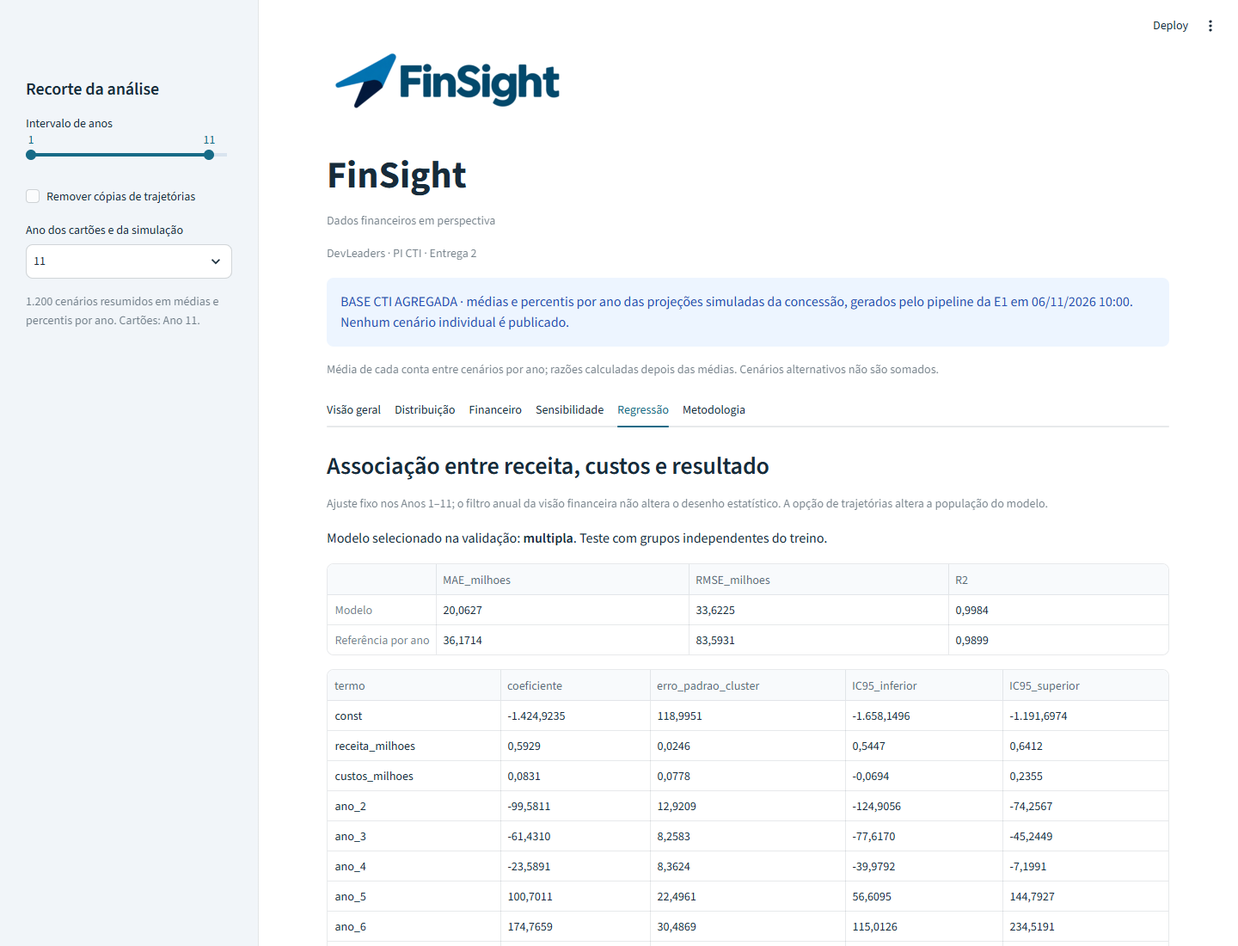
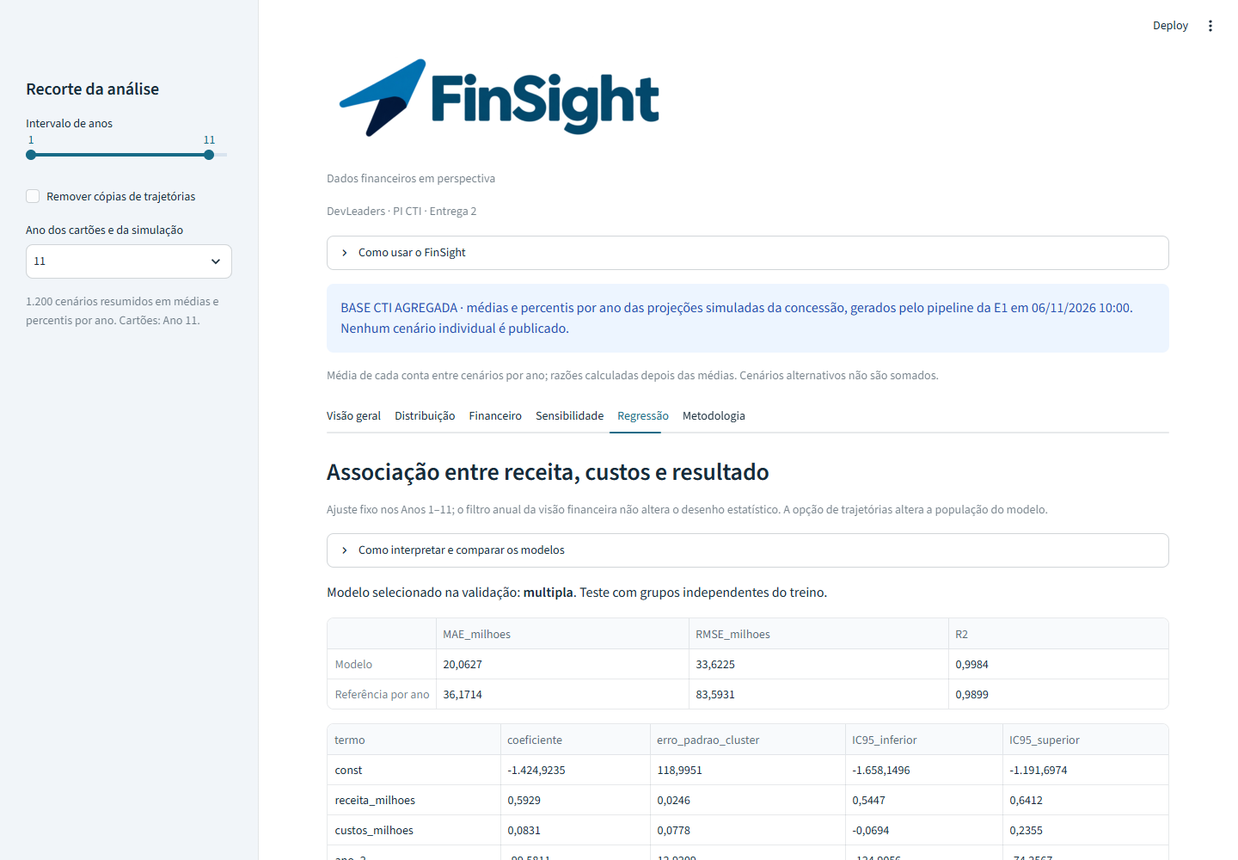
feat: aprimora leitura gerencial encerramento e exportacao PDF

diff --git a/tools/gerar_documentos_e2.py b/tools/gerar_documentos_e2.py
@@ -38,7 +38,7 @@ def capa(disciplina,professor,subtitulo):
             Spacer(1,12),h(disciplina),p(subtitulo),
             table([["Identificação","Entrega 2"],["Grupo","6 - DevLeaders"],
                    ["Integrantes","Gustavo Pires; Lúcio Vecchio; Luiz Henrique Zaim da Cruz; Eric Aloise"],
-                   ["Orientação",professor],["Data de referência","06/11/2026"],
+                   ["Orientação",professor],["Data de referência","07/11/2026"],
                    ["Código testado (referência)",R["commit_implementacao"][:12]],
                    ["Repositório","github.com/2026-2-NCC4/Projeto6"]],[105,385]),Spacer(1,18)]
 def rodape(canvas,doc):
@@ -112,7 +112,7 @@ salvar("Análise Inferencial de Dados","E2_Analise_Inferencial_CTI.pdf",s)
 s=capa("Contabilidade e Finanças","Orientadores do PI: Eduardo Savino, Luis Pires, Mauricio Lopes e Rodnil da Silva","Painel operacional, regras de cálculo e sensibilidade")
 s += [h("1. Decisões apoiadas"),p("O painel integra receita, custos, margem após custos, resultado líquido e geração de caixa. As abas Financeiro e Sensibilidade oferecem os indicadores E1, ticket hipotético, meta acadêmica, evolução anual e comparação entre referência e simulação."),
       p("Os cenários são alternativas da mesma concessão. Para cada ano, calculamos a média de cada conta e depois o indicador. Não somamos faturamento entre cenários nem saldos patrimoniais entre anos. O padrão mantém todos os 1.200 cenários; a opção sem cópias retém 1.107 trajetórias."),
-      p("A versão de produção utiliza médias e percentis reais da CTI, conferidos com a base preparada E1. O arquivo completo permanece local. O painel identifica a fonte e oferece a comparação de 1.200 cenários com 1.107 trajetórias únicas."),br(),
+      p("A versão de produção utiliza médias e percentis reais da CTI, conferidos com a base preparada E1. O arquivo completo permanece local. O painel identifica a fonte e oferece a comparação de 1.200 cenários com 1.107 trajetórias únicas. O guia de uso orienta gestão, financeiro e análise. A Visão geral acrescenta leitura textual e quadro próprio dos Anos 11-12; a tabela de encerramento não constitui ponte contábil e preserva a população escolhida."),br(),
       h("2. Dicionário operacional")]
 from src.cti.indicadores import calcular
 s += [table([["KPI","Unidade","Regra"]]+[[k.nome,k.unidade,k.formula] for k in calcular({})],[160,65,265]),
@@ -124,7 +124,7 @@ s += [table([["Indicador","Fórmula / interpretação","Validação"],
              ["Resultado líquido","DRE - Resultado Líquido","Conta da base, sem substituir por margem parcial."],
              ["Geração de caixa","FLU - Geração de Caixa","Conta anual; não equivale a EBITDA."],
              ["MVA","Indisponível","Falta valor de mercado; não atribuir zero."]],[115,220,155]),
-      Spacer(1,15),p("Denominador zero ou conta ausente deixa o indicador indisponível. PC não negativo mantém os indicadores dependentes pendentes. Ano 12 preserva ausência de estoques, PL e ELP. EBITDA é fornecido, sem memória de cálculo reconciliada. EVA simplificado é hipótese sobre capital próprio, não cálculo completo de EVA econômico."),
+      Spacer(1,15),p("Denominador zero ou conta ausente deixa o indicador indisponível. PC não negativo mantém os indicadores dependentes pendentes. Ano 12 preserva ausência de estoques, PL e ELP. EBITDA é fornecido: a conferência local confirmou diferença para a alternativa Resultado Operacional menos Depreciação/Amortização assinada. Sem confirmação contábil da memória de cálculo, a conta fornecida foi mantida e a pendência explicitada. EVA simplificado é hipótese sobre capital próprio, não cálculo completo de EVA econômico."),
       h("4. Sensibilidade implementada"),
       p("Com receita R e custo assinado C: R_sim = R × (1 - desconto); C_sim = C × (1 + variação); margem = R_sim + C_sim. Mantém volume e demais contas constantes. Não recalcula tributos, EBITDA ou resultado líquido."),
       p("Desconto permitido: 0-100%; variação de custo: -100% a +200%. São limites do exercício, não elasticidades estimadas. Parâmetros nulos reproduzem a referência. Restaurar hipóteses e trocar ano/população devolvem a meta à margem do recorte. Receita simulada zero torna a margem percentual indisponível."),
@@ -133,17 +133,17 @@ s += [table([["Indicador","Fórmula / interpretação","Validação"],
 s += [table([["Verificação atual","Resultado"],["KPIs numéricos vs. planilha E1","161 conferidos"],["Indisponibilidades / pendências","55 estados coerentes"],["Total de KPIs","216/216, sem divergência"],["Identidades por ano","24/24"],["Entradas da planilha","165 valores numéricos + 3 ausências conferidos"],["Teste negativo","Receita alterada em 10% detectada; validação reprovou como esperado"]],[230,260]),
       Spacer(1,15),p("A referência independente é a planilha avaliada da E1, preservada. Comparação dos valores salvos após recálculo histórico, com tolerância de KPI relativa 1e-6 e absoluta R$0,01. As identidades devem ter resíduo inferior a R$1. Esta etapa não afirma um novo recálculo do Excel."),
       p("Testes sintéticos também cobrem fórmulas com valores esperados calculados manualmente, receita zero, sinal de PC, conta ausente, quantidade zero, limites dos controles e restauração da referência. Fórmulas são compartilhadas pelo painel e pela rotina de validação; os relatórios documentam as mesmas regras."),
-      p("Uso: escolher anos e política de repetição; escolher o ano dos cartões; consultar evolução; ajustar somente as hipóteses acadêmicas em Sensibilidade; ler estados na tabela Financeiro. Download de KPIs agregados reais disponível na produção; demo fictícia exige CTI_DEMO=1."),
+      p("Uso: escolher anos e política de repetição; escolher o ano dos cartões; consultar evolução; ajustar somente as hipóteses acadêmicas em Sensibilidade; ler estados na tabela Financeiro. Download de KPIs agregados reais e de PDF gerencial disponível na produção; demo fictícia exige CTI_DEMO=1. O PDF registra recorte, fórmulas e hipóteses atuais da Sensibilidade. Não publica cenários individuais."),
       p("Referências: dicionário e planilha de Contabilidade e Finanças E1; enunciado FINAL FECAP, seções 5.4, 10 e 11. Implementação: src/cti/indicadores.py, recortes.py e sensibilidade.py; teste independente: src/cti/executar_e2.py.") ]
 salvar("Contabilidade e Finanças","E2_Painel_Financeiro_CTI.pdf",s)
 
 # Engenharia
 s=capa("Engenharia de Software e Arquitetura de Sistemas","Luis Pires","Design de software e UML aplicados ao produto")
 s += [h("1. Arquitetura implementada"),p("Arquitetura modular em Python: a interface Streamlit coordena serviços de domínio; preparação e validação isolam os dados; cálculos financeiros e regressão são reutilizáveis por CLI, notebook e painel. O sistema não exige banco nem API próprios para o volume atual."),
-      p("Entradas: CSV CTI autorizado ou Parquet preparado; gerador fictício independente para demonstração; filtros de ano e repetição; hipóteses de desconto, custo, volume e meta. Processamento: validação, recorte, médias anuais, KPIs, simulação e ajuste por trajetórias. Saídas: tabelas, gráficos, indicadores com estado, PDF, evidências e CSV de indicadores agregados reais."),
+      p("Entradas: CSV CTI autorizado ou Parquet preparado; gerador fictício independente para demonstração; filtros de ano e repetição; hipóteses de desconto, custo, volume e meta. Processamento: validação, recorte, médias anuais, KPIs, simulação e ajuste por trajetórias. Saídas: tabelas, gráficos, indicadores com estado, PDF gerencial do recorte, PDFs acadêmicos, evidências e CSV de indicadores agregados reais."),
       p("Decisões: reaproveitar prepara.py evita divergência com E1; funções puras separam regra e apresentação; Parquet reduz custo de leitura; cache evita repetir carga e ajuste sem alteração de dados. O modo público não inclui upload ou exportação de dados privados."),
       p("Alternativa de banco/API aumentaria manutenção sem requisito atual de concorrência de escrita. A arquitetura admite substituição futura do carregador sem duplicar fórmulas."),br(),
-      h("2. UML de componentes"),UML("componentes"),p("O consumidor aponta para o provedor por dependência tracejada. app utiliza dados/recortes, agregados, indicadores, sensibilidade, distribuição, formatação, regressão e versão. executar_e2 prepara e avalia; a versão pública lê agregados_cti.json e evidencias_e2.json. A base completa é local; demonstração é uma opção explícita."),
+      h("2. UML de componentes"),UML("componentes"),p("O consumidor aponta para o provedor por dependência tracejada. app utiliza dados/recortes, agregados, indicadores, sensibilidade, distribuição, formatação, regressão, versão, leitura gerencial e relatório PDF. O relatório reutiliza regras financeiras e leitura gerencial. executar_e2 prepara e avalia; a versão pública lê agregados_cti.json e evidencias_e2.json. A base completa é local; demonstração é uma opção explícita."),
       p("Fontes editáveis: componentes.puml e sequencia.puml; figuras PNG renderizadas dessas fontes. O gerador PDF incorpora as mesmas figuras, eliminando um desenho manual independente. Dependências representam consumo de módulos e artefatos; não são ordem de execução."),br(),
       h("3. UML de sequência"),UML("sequencia"),
       p("Participantes: usuário, app, dados/agregados e sensibilidade. Linhas de vida tracejadas, mensagens e retornos; fragmento alt distingue entrada inválida e válida. Resultado com falha é apresentado como mensagem, nunca substituído silenciosamente por zero."),
@@ -154,7 +154,7 @@ s += [table([["Requisitos FECAP","Implementação / evidência"],
              ["RF06-RF07: análise e regressão","E1 descritiva preservada; regressao.py + notebook E2 com 6/6 células"],
              ["RF08 / RF11: KPIs e cenários","indicadores.py e sensibilidade.py; 216 KPIs + 24 identidades conferidos"],
              ["RF09-RF10 / RF13: relatório e painel","Quatro PDFs; cinco cartões, evolução, tabelas, filtros e notas"],
-             ["RF12: exportação autorizada","CSV agregado real disponível; base completa e linhas individuais não exportadas"],
+             ["RF12: exportação autorizada","CSV e PDF do recorte agregado disponíveis; base completa e linhas individuais não exportadas"],
              ["RF14: execução e publicação",STATUS_NUVEM],
              ["Confiabilidade / manutenção",f"{N_TESTES} testes aprovados, incluindo entradas inválidas, recortes, fórmulas, modelo, interface, versão e teste negativo real"],
              ["Reprodução / segurança","Dependências específicas E2; base completa ignorada pelo Git; produção CTI agregada como padrão"]],[155,335]),
@@ -166,7 +166,7 @@ s += [p("Esperado: integrar as disciplinas em um único painel, preservar a base
       p("Revisão cruzada: a meta ficou presa ao primeiro ano e o botão Restaurar gerou aviso de estado; ambos foram corrigidos e retestados. Os desenhos UML manuais do PDF divergiam das fontes: as figuras agora são renderizadas diretamente dos .puml versionados. A identificação do commit passou a ser consultada no checkout em execução."),
       p("As datas e o método de E1 foram mantidos como história, sem inventar reuniões, validação empresarial ou aceites. A nova preparação não sobrescreve relatórios E1. Código específico de plataforma foi separado do ambiente antigo de Windows."),
       p("Melhorias futuras: esclarecer convenções CTI, testar estabilidade do modelo em outras partições, avaliar modelos de dependência temporal e acrescentar autenticação somente se houver publicação autorizada de dados restritos. O protótipo não sustenta decisão econômica real sem validação do domínio."),
-      p(STATUS_NUVEM),p("Aprovação acadêmica da plataforma não informada. Banner e documento de extensão permanecem pendentes, em etapa posterior conforme prioridade do grupo."),
+      p(STATUS_NUVEM),p("Aprovação acadêmica da plataforma não informada. Banner em PNG e PPTX disponível no GitHub, com QR do dashboard decodificado; aprovação acadêmica e conferência de impressão ainda não informadas. Documento de extensão fica para etapa posterior conforme prioridade do grupo."),
       p("Referências: enunciado FINAL FECAP, seções 4-6 e 11; artefatos E1; módulos e testes E2 do repositório. Diagramas e descrições foram confrontados com os arquivos existentes.") ]
 salvar("ES e ML","E2_Engenharia_Software_CTI.pdf",s)
 
@@ -184,8 +184,8 @@ s += [table([["Área","Comportamento"],["Visão geral","Cinco indicadores: recei
              ["Financeiro","18 indicadores e estados da E1, regras, premissas e limitações"],
              ["Sensibilidade","Desconto, custo, volume hipotético, ticket e meta; comparação referência/simulação e restauração"],
              ["Regressão","Evidências publicadas no modo agregado; ajuste sob demanda no modo local, com validação por trajetória"],
-             ["Metodologia","Origem, esquema, unidade, atualização, regras e CSV agregado real"]],[125,365]),
-      Spacer(1,15),p("Todos os indicadores financeiros usam o mesmo recorte e as mesmas médias. O modelo usa Anos 1-11 para manter desenho fixo e informa isso explicitamente, sem aparentar responder ao filtro anual do financeiro. A política de cópias afeta sua população."),
+             ["Metodologia","Origem, esquema, unidade, atualização, regras, CSV agregado e PDF gerencial do recorte"]],[125,365]),
+      Spacer(1,15),p("Todos os indicadores financeiros usam o mesmo recorte e as mesmas médias. O quadro de encerramento usa Anos 11-12 da população escolhida, com aviso explícito de recorte independente do filtro anual. A leitura textual compara somente anos consecutivos presentes no intervalo. O PDF gerencial resume o recorte financeiro e as hipóteses de tela; não inclui modelos individuais. O modelo usa Anos 1-11 para manter desenho fixo e informa isso explicitamente, sem aparentar responder ao filtro anual do financeiro. A política de cópias afeta sua população."),
       p("Metadados: versão e2-v1, data da entrega, modo da base, unidade por indicador, fórmula e estado. Calendário 2026 + ano e R$ são convenções acadêmicas. As telas alertam sobre ausência, encerramento e indisponibilidades."),br(),
       h("3. Execução e implantação")]
 s += [p("Python 3.13. Criar ambiente virtual; instalar app/requirements.txt para o painel ou requirements-e2-dev.txt para análise, testes e geração de documentos. O requirements.txt E1 permanece preservado."),
@@ -208,4 +208,9 @@ s += [br(),h("5. Evidências visuais do produto"),
       p(f"Suíte local: {N_TESTES} testes aprovados, sem falhas ou omissões. Notebook: 6/6 células sem erro em kernel local limpo. As seis abas e o CSV foram conferidos na URL pública, além da inspeção em largura de celular."),
       p("Código em execução é identificado na aba Metodologia quando o checkout Git está disponível. O SHA da análise numérica identifica a execução do pipeline; não deve ser confundido com a versão do deploy."),
       p(STATUS_NUVEM)]
+s += [br(),h("7. Leitura gerencial e encerramento"),
+      p("Revisão de 07/11: guia para gestão, financeiro e análise; resumo textual do ano escolhido; quadro dos Anos 11-12 e PDF gerencial do recorte. Foram reaproveitados os agregados autorizados. Não há exposição ou classificação de cenários individuais."),
+      tela("encerramento"),
+      p("Quadro com recorte explicitamente independente do filtro anual e mesma população selecionada. Contas são exibidas separadamente; não se somam percentis nem se afirma uma ponte contábil completa.", "SmallPT"),
+      p("Em Metodologia, preparar e baixar PDF reúne evolução, indicadores, fórmulas, fonte, versão e hipóteses atuais de Sensibilidade. Distribuição e regressão conservam seus próprios relatórios e notas. Casos com anos isolados e as duas populações foram conferidos; valores e estados acompanham o recorte.")]
 salvar("Projeto Interdisciplinar Ciência de Dados","E2_PI_Ciencia_de_Dados_CTI.pdf",s)

diff --git a/app/app.py b/app/app.py
@@ -21,6 +21,7 @@ from src.cti.distribuicao import CONTAS as CONTAS_DIST, percentis_anuais, propor
 from src.cti import agregados as ag
 from src.cti.formatacao import numero, reais_mi, valor_kpi, parcela, data_hora
 from src.cti.versao import commit_em_execucao
+from src.cti.leitura import resumo, encerramento
 
 # Números dos gráficos no padrão brasileiro: vírgula decimal e ponto de milhar
 LOCALE=alt.Locale(number=alt.NumberLocale(decimal=",",thousands=".",grouping=[3],currency=["R$ ",""]))
@@ -88,6 +89,10 @@ except (OSError,ValueError,TypeError,KeyError) as exc:
 st.image(str(ROOT/"imagens/logo_finsight.png"),width=400)
 st.caption("Dados financeiros em perspectiva")
 st.caption("DevLeaders · PI CTI · Entrega 2")
+with st.expander("Como usar o FinSight"):
+    st.markdown("**Gestão:** compare receita, resultado e caixa na Visão geral; leia o resumo e o encerramento.\n\n"
+                "**Financeiro:** confira fórmulas e estados em Financeiro e teste hipóteses em Sensibilidade.\n\n"
+                "**Análise:** examine faixas e riscos em Distribuição, modelos em Regressão e fontes em Metodologia.")
 if modo=="local":
     st.info("BASE CTI LOCAL · projeções simuladas da concessão. Acesso restrito a este ambiente; não publicar o arquivo.")
 elif modo=="agregados" and agg["origem"].get("corresponde_referencia_E1") is True:
@@ -141,11 +146,24 @@ with overview:
         tooltip=[alt.Tooltip("ano:O",title="Ano"),"Indicador:N",alt.Tooltip("valor:Q",title="R$ milhões",format=",.2f")])
     st.altair_chart(grafico.configure(locale=LOCALE),width="stretch")
     st.caption("Margem após custos exclui tributos e demais despesas; não equivale a lucro líquido.")
+    st.subheader(f"Leitura gerencial · Ano {ano}")
+    for texto in resumo(medias, ano):
+        st.write(texto)
+    st.caption("Comparação de médias da mesma população, dentro do intervalo escolhido. Variação entre projeções não comprova desempenho realizado ou causa e efeito.")
     st.dataframe(pd.DataFrame({"Ano":[int(a) for a in medias.index],
                                **{nome:[reais_mi(v) for v in medias[conta]] for conta,nome in
                                   {"DRE - Receita":"Receita","DRE - Custos":"Custos (assinado)",
                                    "DRE - Resultado Líquido":"Resultado líquido","FLU - Geração de Caixa":"Geração de caixa"}.items()}}),
                  width="stretch",hide_index=True)
+    with st.expander("Encerramento da concessão · Ano 12", expanded=ano==12):
+        st.write("O Ano 12 encerra a concessão e tem estrutura diferente dos anos operacionais. Este quadro sempre compara os Anos 11 e 12 da população selecionada, mesmo quando o intervalo dos outros gráficos termina no Ano 11.")
+        ultimos=ag.medias(agg,populacao,(11,12)) if agg else medias_anuais(filtrar(base,(11,12),unicas))
+        terminal=encerramento(ultimos)
+        for coluna in terminal.columns:
+            if coluna != "Ano": terminal[coluna]=terminal[coluna].map(reais_mi)
+        st.dataframe(terminal,hide_index=True,width="stretch")
+        st.caption("Valores médios em milhões de reais. As contas acima são apresentadas separadamente; não constituem uma ponte de caixa nem uma identidade completa de liquidação. Saldo inicial/final e todos os fluxos seriam necessários para essa reconciliação.")
+        st.info("Contas patrimoniais ausentes não viram zero. Razões com contas ausentes ou denominador inválido permanecem indisponíveis. As faixas da aba Distribuição são percentis marginais; somá-los não representa uma trajetória real.")
 with distribuicao:
     st.subheader("Distribuição entre os cenários")
     st.caption("Os cenários são futuros alternativos simulados para a mesma concessão. A faixa mostra como eles se espalham em cada ano; não é intervalo de confiança nem probabilidade real.")
@@ -219,6 +237,7 @@ with sensibilidade:
     delta=cols[1].slider("Variação dos custos (%)",-100.0,200.0,key="custo_delta")/100
     volume=cols[0].number_input("Quantidade hipotética de transações no ano",min_value=1.0,key="volume")
     alvo_pct=cols[1].number_input("Meta acadêmica de margem (% da receita original)",min_value=-200.0,max_value=100.0,key="meta_pct")
+    resultado=None
     try:
         meta=meta_percentual(r,c,alvo_pct/100)
         st.caption(f"Meta em valor: {dinheiro(meta)}. Referência original: {numero(referencia_pct)}%. O percentual é uma hipótese do exercício, aplicada à receita original; mantém a comparação após desconto. Ao trocar o ano ou a população, a meta volta à margem de referência.")
@@ -235,6 +254,10 @@ with sensibilidade:
 with regressao:
     st.subheader("Associação entre receita, custos e resultado")
     st.caption("Ajuste fixo nos Anos 1–11; o filtro anual da visão financeira não altera o desenho estatístico. A opção de trajetórias altera a população do modelo.")
+    with st.expander("Como interpretar e comparar os modelos"):
+        st.write("Pergunta: como receita e custos se associam ao resultado líquido, controlando o ano? O modelo simples usa receita; o múltiplo acrescenta custos e efeitos de ano. A validação escolhe pelo RMSE; o teste é reservado até a escolha.")
+        st.write("MAE é o erro absoluto médio; RMSE dá mais peso aos erros grandes; ambos estão em milhões de reais. R² mede ajuste à variabilidade desta amostra. Métricas de modelos com desfechos, anos ou populações diferentes não são diretamente comparáveis.")
+        st.write("Trajetórias iguais permanecem no mesmo grupo da divisão 60%/20%/20%. Erros-padrão são agrupados por trajetória; diagnósticos de resíduos e colinearidade complementam as métricas. Um ajuste alto pode refletir relações contábeis e não capacidade de prever o futuro.")
     if agg:
         evidencias=ROOT/ag.EVIDENCIAS
         try:
@@ -287,4 +310,15 @@ with metodologia:
         st.download_button("Exportar KPIs agregados (CSV)",tabela(medias).to_csv(index=False).encode("utf-8-sig"),"kpis_agregados_cti.csv","text/csv")
     else:
         st.download_button("Exportar KPIs fictícios (CSV)",tabela(medias).to_csv(index=False).encode("utf-8-sig"),"kpis_ficticios.csv","text/csv")
+    if modo != "local":
+        st.subheader("Relatório gerencial do recorte")
+        st.caption("PDF com os anos e a população selecionados, indicadores do ano dos cartões, evolução e hipóteses atuais da Sensibilidade. Distribuição e regressão permanecem nas respectivas abas e relatórios técnicos.")
+        if st.button("Preparar relatório PDF"):
+            from src.cti.relatorio import gerar_pdf
+            fonte_pdf=(f"Fonte: CTI, agregados {agg['schema']}, gerados em {data_hora(agg['gerado_em_utc'])}; SHA-256 de entrada {agg['origem'].get('entrada_sha256','não informado')}."
+                       if agg else "DEMONSTRAÇÃO FICTÍCIA: dados gerados, sem relação com resultados CTI.")
+            pdf=gerar_pdf(medias,ano,"trajetórias únicas" if unicas else "todos os cenários",fonte_pdf,commit,
+                          resultado, {"Desconto (%)":desconto*100,"Variação dos custos (%)":delta*100,
+                                      "Quantidade hipotética":volume,"Meta de margem (%)":alvo_pct})
+            st.download_button("Baixar relatório PDF",pdf,"FinSight_Relatorio_Gerencial.pdf","application/pdf",on_click="ignore")
 st.caption(f"Processamento desta interação: {time.perf_counter()-inicio:.2f} s · Valores são projeções/simulações, não resultados realizados.")

diff --git a/src/cti/relatorio.py b/src/cti/relatorio.py
@@ -1,0 +1,76 @@
+"""PDF gerencial gerado exclusivamente das médias e hipóteses apresentadas no painel."""
+from io import BytesIO
+from datetime import datetime, timezone
+from xml.sax.saxutils import escape
+from reportlab.lib import colors
+from reportlab.lib.styles import getSampleStyleSheet
+from reportlab.lib.pagesizes import A4
+from reportlab.platypus import SimpleDocTemplate, Paragraph, Spacer, Table, TableStyle, PageBreak
+from reportlab.graphics.shapes import Drawing
+from reportlab.graphics.charts.lineplots import LinePlot
+from .indicadores import calcular
+from .formatacao import reais_mi, valor_kpi, numero
+from .leitura import resumo, CONTAS
+
+
+def gerar_pdf(medias, ano, populacao, origem, commit, simulacao=None, hipoteses=None):
+    """`medias` deve conter somente o recorte agregado que será exportado."""
+    if medias.empty or ano not in medias.index:
+        raise ValueError("Recorte vazio ou ano fora do recorte.")
+    arquivo = BytesIO()
+    estilos = getSampleStyleSheet()
+    corpo = estilos["BodyText"]
+    corpo.fontSize = 9
+    corpo.leading = 13
+    def p(t, estilo="BodyText"):
+        return Paragraph(escape(str(t)), estilos[estilo])
+    def tabela(linhas, larguras):
+        t = Table([[p(v) for v in l] for l in linhas], colWidths=larguras, repeatRows=1, hAlign="LEFT")
+        t.setStyle(TableStyle([("BACKGROUND",(0,0),(-1,0),colors.HexColor("#e5eff4")),
+                              ("VALIGN",(0,0),(-1,-1),"TOP"),
+                              ("BOTTOMPADDING",(0,0),(-1,-1),7),
+                              ("TOPPADDING",(0,0),(-1,-1),7),
+                              ("LINEBELOW",(0,0),(-1,0),.5,colors.grey)]))
+        return t
+    story = [p("FinSight", "Title"),p("Dados financeiros em perspectiva"),
+             p("Relatório gerencial do recorte", "Heading1"),
+             p(f"Anos {min(medias.index)} a {max(medias.index)}; cartões: Ano {ano}; população: {populacao}."),
+             p("Exportado em " + datetime.now(timezone.utc).strftime("%d/%m/%Y %H:%M UTC") + "."),
+             p(origem),p("Código: " + (commit or "versão indisponível neste ambiente")),
+             p("Unidades indicadas em cada valor; evolução e gráfico em milhões de reais. Médias entre futuros alternativos simulados; cenários não são somados."),
+             p("Leitura do recorte", "Heading2")]
+    story += [p(t) for t in resumo(medias, ano)]
+    story += [p("Evolução anual", "Heading2")]
+    if len(medias) > 1:
+        desenho = Drawing(490, 200)
+        plot = LinePlot()
+        plot.x, plot.y, plot.width, plot.height = 55, 35, 410, 145
+        plot.data = [[(int(a),float(row[c])/1e6) for a,row in medias.iterrows()] for c in CONTAS.values()]
+        plot.xValueAxis.valueMin, plot.xValueAxis.valueMax = int(min(medias.index)), int(max(medias.index))
+        plot.xValueAxis.valueSteps = [int(a) for a in medias.index]
+        for i,cor in enumerate(["#0077ad", "#044363", "#b45309"]):
+            plot.lines[i].strokeColor = colors.HexColor(cor)
+            plot.lines[i].strokeWidth = 1.5
+        desenho.add(plot)
+        story += [desenho,p("Linhas: receita (azul), resultado líquido (azul escuro), geração de caixa (ocre). Eixo horizontal: Ano; vertical: R$ milhões.")]
+    story += [PageBreak(),p(f"Indicadores do Ano {ano}","Heading1"),
+              p("Mesmas regras da planilha E1: razões das médias, não média das razões. Contas ausentes e denominadores inválidos preservam seus estados.")]
+    story += [tabela([["Indicador", "Valor / situação", "Fórmula"]] +
+                    [[k.nome,valor_kpi(k.valor,k.unidade,k.estado),k.formula+"; "+k.estado] for k in calcular(medias.loc[ano])], [130,150,210])]
+    story += [PageBreak(),p("Evolução e hipóteses", "Heading1"),
+              tabela([["Ano",*CONTAS]] + [[int(a),*[reais_mi(row[c]) for c in CONTAS.values()]] for a,row in medias.iterrows()], [40,150,150,150])]
+    if simulacao is not None and hipoteses is not None:
+        story += [p("Sensibilidade acadêmica", "Heading2"),
+                  p("Hipóteses de tela: " + "; ".join(f"{k}: {numero(v)}" for k,v in hipoteses.items())),
+                  p("Valores simulados: margem " + reais_mi(simulacao["margem"]) + "; ticket R$ " + numero(simulacao["ticket_simulado"]) + "; desvio da meta " + reais_mi(simulacao["desvio_meta"]) + "."),
+                  p("Volume e meta são hipóteses acadêmicas. A simulação mantém demais contas constantes e não recalcula tributos, EBITDA ou resultado líquido.")]
+    story += [p("Limitações", "Heading2"),
+              p("Projeções da CTI, não resultados realizados. Margem após custos não é lucro líquido. Ano 12 é encerramento, com contas ausentes e outro regime; não extrapolar sua dinâmica para operação regular. EBITDA fornecido ainda requer reconciliação da memória de cálculo. Indicadores dependentes de PC com sinal não negativo permanecem pendentes. Não há causalidade ou recomendação de investimento implícita."),
+              p("A exportação contém apenas estatísticas agregadas. Não contém cenários individuais ou ranking. As análises de distribuição e regressão estão nas abas e nos documentos técnicos; este relatório resume o recorte financeiro selecionado.")]
+    def rodape(canvas,doc):
+        canvas.setFont("Helvetica",8)
+        canvas.drawString(42,25,"FinSight | Resumo do recorte | fonte CTI ou demonstração identificada acima")
+        canvas.drawRightString(553,25,str(doc.page))
+    SimpleDocTemplate(arquivo,pagesize=A4,leftMargin=42,rightMargin=42,topMargin=36,bottomMargin=45,
+                      title="FinSight - Relatório gerencial",author="DevLeaders").build(story,onFirstPage=rodape,onLaterPages=rodape)
+    return arquivo.getvalue()

diff --git a/src/cti/leitura.py b/src/cti/leitura.py
@@ -1,0 +1,36 @@
+"""Leitura gerencial de médias anuais, sem reconstruir cenários individuais."""
+import math
+import pandas as pd
+
+CONTAS = {"Receita": "DRE - Receita", "Resultado líquido": "DRE - Resultado Líquido",
+          "Geração de caixa": "FLU - Geração de Caixa"}
+
+
+def resumo(medias, ano):
+    """Compara apenas anos consecutivos disponíveis no mesmo recorte/população."""
+    linha = medias.loc[ano]
+    textos = []
+    for nome, conta in CONTAS.items():
+        valor = linha[conta]
+        if pd.isna(valor) or not math.isfinite(float(valor)):
+            textos.append(f"{nome}: valor indisponível.")
+            continue
+        estado = "positivo" if valor > 0 else "negativo" if valor < 0 else "zero"
+        textos.append(f"{nome}: valor médio {estado} no Ano {ano}.")
+        if ano - 1 in medias.index:
+            antes = medias.loc[ano - 1, conta]
+            if pd.notna(antes) and math.isfinite(float(antes)):
+                delta = float(valor - antes) / 1e6
+                textos.append(f"Variação de {nome.lower()} em relação ao Ano {ano-1}: "
+                              + f"{delta:+,.2f}".replace(",", "X").replace(".", ",").replace("X", ".")
+                              + " milhões de reais.")
+    return textos
+
+
+def encerramento(medias):
+    """Contas observadas, em médias, para os anos 11 e 12; não é uma ponte contábil."""
+    linhas = []
+    for ano in (11, 12):
+        if ano in medias.index:
+            linhas.append({"Ano": ano, **{nome: medias.loc[ano, conta] for nome, conta in CONTAS.items()}})
+    return pd.DataFrame(linhas)

diff --git a/tests/test_leitura.py b/tests/test_leitura.py
@@ -1,0 +1,33 @@
+"""Casos independentes para interpretação de recortes e encerramento."""
+import pandas as pd
+from src.cti.leitura import resumo, encerramento
+
+
+def medias():
+    return pd.DataFrame({"DRE - Receita":[100e6,120e6],
+                         "DRE - Resultado Líquido":[10e6,-5e6],
+                         "FLU - Geração de Caixa":[0,2e6]}, index=[11,12])
+
+
+def test_leitura_nao_confunde_variacao_com_valor():
+    textos=" ".join(resumo(medias(),12))
+    assert "Resultado líquido: valor médio negativo" in textos
+    assert "+20,00 milhões" in textos and "-15,00 milhões" in textos
+
+
+def test_comparacao_exige_ano_anterior_no_recorte():
+    textos=" ".join(resumo(medias().loc[[12]],12))
+    assert "Variação" not in textos
+
+
+def test_ausencia_nao_vira_zero():
+    m=medias(); m.loc[12,"FLU - Geração de Caixa"]=float("nan")
+    assert "Geração de caixa: valor indisponível." in resumo(m,12)
+    assert pd.isna(encerramento(m).loc[1,"Geração de caixa"])
+
+
+def test_encerramento_mantem_contas_separadas():
+    t=encerramento(medias())
+    assert t.Ano.tolist()==[11,12]
+    assert t["Receita"].tolist()==[100e6,120e6]
+    assert t["Geração de caixa"].tolist()==[0,2e6]

diff --git a/README.md b/README.md
@@ -52,19 +52,20 @@ A implementação E2 reúne cinco indicadores, evolução anual, filtros, 18 KPI
 
 Instale `requirements-e2-dev.txt` em ambiente Python 3.13 e execute `python -m streamlit run app/app.py`. Para testes, use `python -m pytest -q`. As dependências E2 são separadas do ambiente E1.
 
-Validação local atualizada em 06/11/2026: 15 verificações da preparação e cobertura individual aprovadas; 216 KPIs e 24 identidades conferidos com a planilha E1; notebook E2 com 6/6 células sem erro em kernel local; 40 testes automatizados aprovados. A comparação com a planilha utiliza seus valores salvos, sem afirmar novo recálculo do Excel. As métricas de regressão são associativas, com limitações contábeis e temporais documentadas.
+Validação local atualizada em 07/11/2026: 15 verificações da preparação e cobertura individual aprovadas; 216 KPIs e 24 identidades conferidos com a planilha E1; notebook E2 com 6/6 células sem erro em kernel local; 44 testes automatizados aprovados. A comparação com a planilha utiliza seus valores salvos, sem afirmar novo recálculo do Excel. As métricas de regressão são associativas, com limitações contábeis e temporais documentadas.
 
 **Dashboard publicado:** [Abrir painel CTI](https://projeto6cti.streamlit.app/). Acesso público sem login, seis abas e exportação conferidos em 06/11/2026. Usa agregados reais autorizados da CTI; a base completa permanece local. A aprovação acadêmica da plataforma ainda não foi informada.
 
 A aba Metodologia identifica o commit do checkout em execução, quando disponível, para conferir a correspondência entre código e hospedagem.
 
-### Revisão E2 em 06/11/2026
-40 testes aprovados; contrato de agregados reforçado, modo CTI real por padrão e demo explícita. Pipeline real reexecutado, 216 KPIs e 24 identidades conferidos. Interpretação contábil da regressão incorporada ao notebook e às evidências. A URL pública, as evidências e as instruções estão no documento de execução.
+### Revisão E2 em 07/11/2026
+O painel acrescenta leitura gerencial das médias, guia por público, quadro de encerramento com Anos 11–12 e relatório PDF do recorte, disponível em Metodologia. O quadro de encerramento tem recorte próprio explicitamente identificado; não é uma ponte de caixa. O PDF registra população, anos, fórmulas, fonte e hipóteses vigentes da Sensibilidade. Agregados, fórmulas E1 e resultados da regressão permanecem iguais aos conferidos; não há ranking ou exposição de cenários individuais.
 
 ## Estrutura de pastas
 
 ```text
 Projeto6/
+├── app/                  # Interface e agregados publicáveis
 ├── documentos/
 │   ├── Entrega 1/
 │   │   ├── Análise Inferencial de Dados/
@@ -84,6 +85,8 @@ Projeto6/
 │   │   └── processed/
 │   ├── notebooks/
 │   └── prepara.py
+├── tests/                # Verificações automatizadas
+├── tools/                # Geração dos PDFs acadêmicos
 ├── LICENSE
 ├── requirements.txt
 └── README.md

diff --git a/documentos/Entrega 2/Projeto Interdisciplinar Ciência de Dados/EXECUCAO_E2.md b/documentos/Entrega 2/Projeto Interdisciplinar Ciência de Dados/EXECUCAO_E2.md
@@ -15,6 +15,14 @@ python -m venv .venv
 Produção: agregados reais CTI em app/dados/agregados_cti.json ou CTI_AGREGADOS. CTI_BASE_LOCAL seleciona a base completa local; CTI_DEMO=1 seleciona explicitamente a demonstração. Fonte ausente ou inválida bloqueia o painel.
 Cinco KPIs, filtros, financeiro, metas/ticket simulados, sensibilidade, regressão e metodologia estão no mesmo painel.
 
+## Leitura gerencial e PDF (07/11)
+
+Visão geral inclui resumo de sinais e variações das médias entre anos consecutivos do recorte. O quadro de encerramento compara sempre Anos 11 e 12 da população selecionada e explicita esse recorte independente dos outros gráficos. Não soma percentis nem apresenta uma ponte contábil incompleta como se fosse validada.
+
+Em Metodologia, use **Preparar relatório PDF** e **Baixar relatório PDF**. A saída usa o intervalo, população e ano dos cartões e as hipóteses atuais da Sensibilidade, com evolução, fórmulas, fonte e limites. O PDF está disponível nos modos agregado e fictício; não exporta a base completa local. A dependência ReportLab acompanha `app/requirements.txt`. Para reproduzir uma alteração de hipótese, gere novamente o PDF.
+
+As fórmulas financeiras seguem a planilha E1. Uma comparação numérica local confirmou diferença entre EBITDA fornecido e a alternativa Resultado Operacional menos Depreciação/Amortização assinada; sem confirmação contábil, a conta fornecida não foi substituída. PC com sinal não negativo mantém estados pendentes. Mediana dos KPIs, média das razões e razão das médias são estimadores diferentes: o painel continua usando a última regra, documentada e conferida contra E1.
+
 ## Base CTI local
 
 Use somente uma cópia autorizada:
